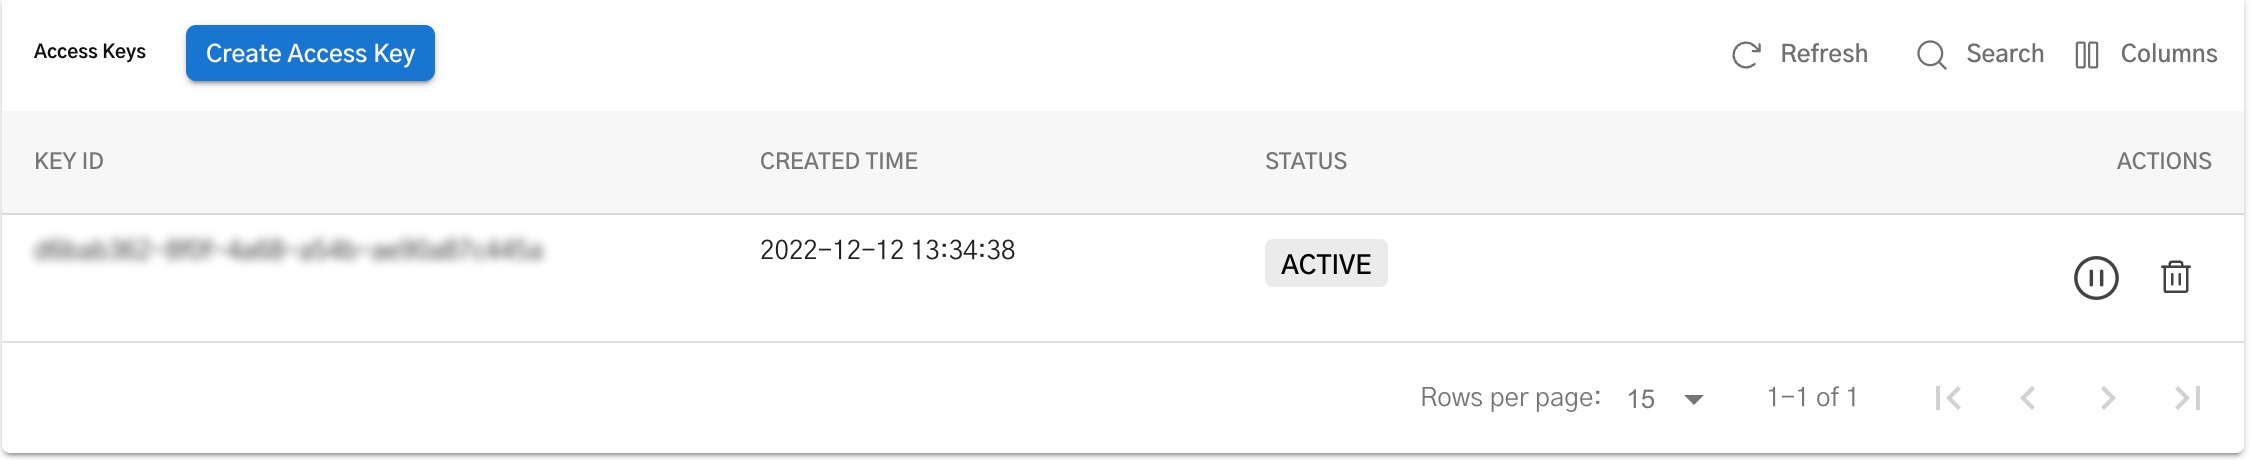
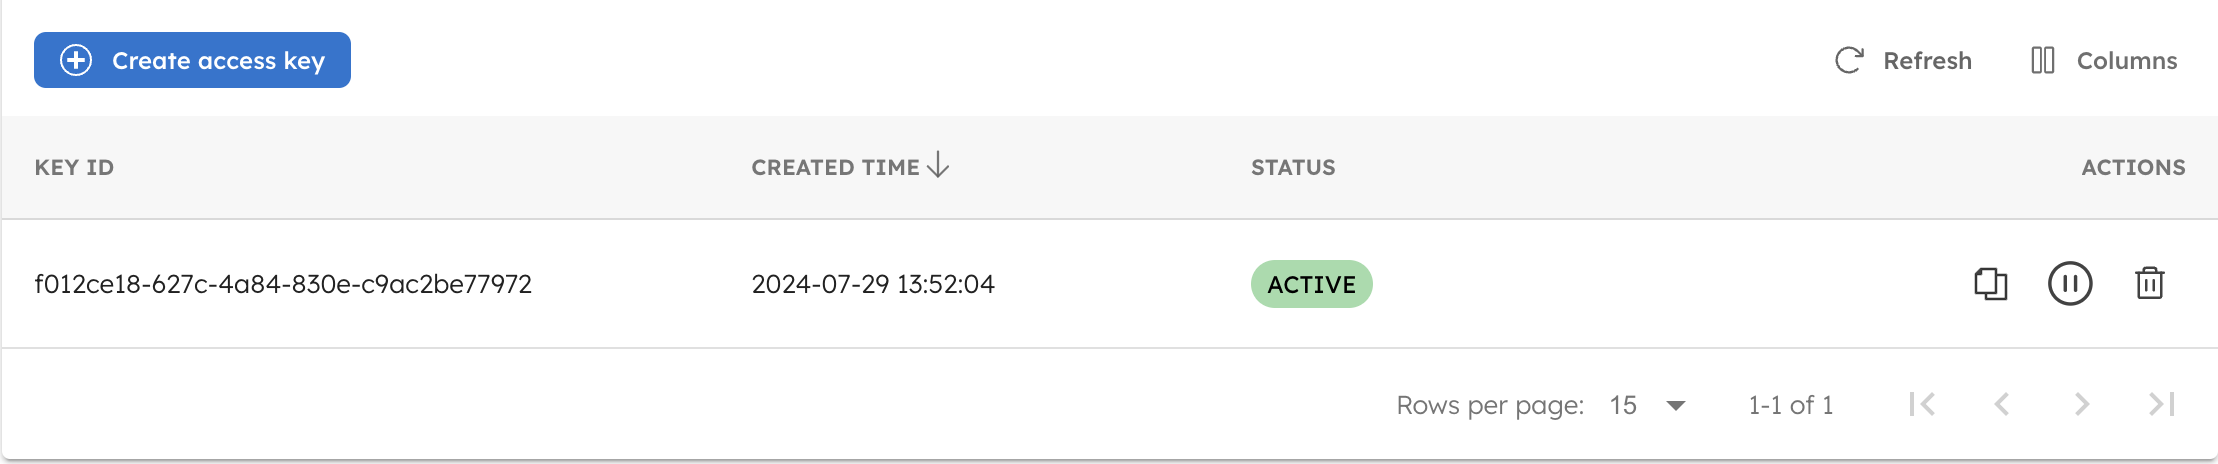
Updates

diff --git a/docs/access-control-and-security/applications.md b/docs/access-control-and-security/applications.md
@@ -1,37 +1,43 @@
 # Enabling Security via Applications
 
-Orkes has added a security layer called Applications, enabling the connection between the workers and the Conductor instance. Every connection in/out of Orkes Conductor requires an authentication header with a JSON Web Token (JWT). This header is of the format: `'X-Authorization: <JWT Token>'`.
+Orkes has added a security layer called Applications, enabling the connection between the workers and the Orkes Conductor cluster. Every connection in/out of Orkes Conductor requires an authentication header with a JSON Web Token (JWT). This header is of the format: `'X-Authorization: <JWT Token>'`.
 
-This document will walk you through the steps to create application-based control for your workflows and tasks and the process to generate JWT tokens for each application.
+An application represents an entity interacting with the Conductor server via APIs or SDKs. Each application can have multiple access key and secret combinations, which are used to generate an authentication token for securing and controlling access to each API request.
+
+This document provides a detailed guide on creating application-based control for your metadata as well as the process for generating JWT tokens for each application.
 
 ## Prototyping
 
-If you are looking for a quick way to test on Orkes Conductor without creating an application, you can obtain a JWT token from the Conductor dashboard. Click the account button in the top right corner, and select **Copy Token**. This token remains valid for your current session and has the same access as your user account.
+For quick testing on Orkes Conductor without creating an application, you can obtain a JWT token from the Orkes Conductor dashboard. Click the account button in the bottom left corner and select "Copy Token." This token remains valid for your current session and has the same access as your user account.
 
 ## Application
 
-Each application can generate one or more sets of keys and secrets, and these parameters are used to generate the JWT token. An application can grant access to workflows, tasks, secrets & tags.
+Each application can generate one or more sets of keys and secrets to produce a JWT token. Applications can grant access to entities such as workflows, tasks, secrets, environment variables, tags, domains, integrations, and prompts.
 
 ### Configuring Application
 
 To create a new application,
-1. From the left menu navigation, navigate to **Access Control > Applications**.
-2. Click **Create application** and provide an app name.
-3. Once your application is created, click the edit button next to its name.
+
+1. Navigate to **Access Control > Applications** from the left menu on your Orkes Conductor console.
+2. Click **+ Create application** and provide an app name.
+3. Click **Save** to create the application.
 
 Depending upon your role, you can see two different role sections that can be granted to the application.
 
-<p align="center"><img src="/content/img/app-roles.png" alt="App roles" width="100%" height="auto"></img></p>
+* Unrestricted roles: Can be granted only by an Admin.
+* Application roles: Can be granted by anyone with access to Applications.
 
-The general application roles that can be granted include:
+<p align="center"><img src="/content/img/app-roles.png" alt="App roles" width="80%" height="auto"></img></p>
 
-* **Worker**: Poll and update tasks. It requires EXECUTE permissions on the tasks.
+General application roles include:
+
+* **Worker**: Poll and update tasks. It requires Execute permissions on the tasks.
 * **Metadata API**: Create and manage workflow and task definitions.
 * **Application API**: Create and manage applications.
 
-The application behavior depends entirely on the app role chosen. Ensure that you select the role based on your requirements. 
+The application's behavior depends on the chosen role, so select roles based on your requirements.
 
-In addition, if you are an Admin in the Orkes Conductor console, then you can see an additional set of following unrestricted roles that are to be granted carefully as they provide full access to different APIs:
+Admins have additional unrestricted roles, such as:
 
 - **Unrestricted Worker** - Poll, execute updates, maintain logs, and handle any task without any constraints
 - **Metadata Manager** - Create, update, delete, and administer Workflow or Task definitions permissions.
@@ -39,41 +45,42 @@ In addition, if you are an Admin in the Orkes Conductor console, then you can se
 - **Application Manager** - Handles the creation, modification, and deletion of applications within the system.
 
 ### Generating Access Keys
-Once your application's permission levels are chosen, access must be granted to the application. This is done by generating an Access Key. Click **Create access key** to generate a unique **Key Id** and **Key Secret**. These values are shown only once, so ensure to copy the credentials and store them privately.
 
-Once a key has been created, you can perform two actions on the key:
+Once permissions are assigned, generate an **Access Key**:
+
+1. Click **+ Create access key** to generate a unique Key Id and Key Secret.
+2. The key secret is shown only once; copy and store it privately.
+
+Once a key has been created, you can perform three actions on the key:
 
 <p align="center"><img src="/content/img/actions-on-the-generated-key.jpg" alt="Generated Key in the Conductor" width="90%" height="auto"></img></p>
 
-* **Pause** - Use the pause button to restrict access to the application temporarily. You can resume this access by un-pausing.
-* **Delete** - Use the delete button to remove the key permanently. It is a one-time action that cannot be undone.
+* **Copy** - Use the copy button to copy the key ID.
+* **Pause** - Use the pause button to temporarily restrict access to the application. 
+* **Delete** - Use the delete button to permanently remove the key.
 
 ### Adding Permissions
-In this section, you can provide the application with access to workflows, tasks, secrets, or tags. To add the permissions,
-1. Click **+Add Permission** from the **Workflow and Task Permissions** section.
-2. Choose the required Workflow/Task/Secret/Tag/Domain/Integration/Prompt in the pop-up window.
-<ul>
-<li><b>Domain</b> - This can be used if you have set up an external worker with a task to domain mapping. You need to provide permission for the domain for the entire application to poll and update the tasks. </li>
-</ul>
+
+In this section, you can provide the application with access to workflows, tasks, secrets, environment variables, tags, domains, integrations, and prompts. 
+
+To grant permissions to the application:
+
+1. Click **+Add Permission**.
+2. Select the required metadata to have access to selected workflows, tasks, secrets, environment variables, tags, domains, integrations, and prompts.
 3. Select all targets that the application needs access to.
 4. Choose the required permissions for the selected targets.
-* **Read** - The user can view the workflow/task/secret/tags, but cannot modify or run them.
-* **Create** - The user can create the workflow/task/secret/tags.
-* **Update** - Allows the user to update the workflow/task/secret/tags. Requires Metadata API role for this.
-* **Execute** - Allows the user to run the workflow/task/secret/tags. Requires Worker role for this.
-* **Delete** - Allows the user to delete the workflow/task/secret/tags. Requires Metadata API role for this.
-5. Once they have been added, the table will display the selection. It is possible to add, change or remove access from here.
-
-:::note 
-When providing permission for tasks, you can specify a domain. This allows you to direct all traffic to a specific task instance without specifying it in the API.
-:::
+   * **Read** - The user can view the entities, but cannot modify or run them.
+   * **Create** - The user can create the entities.
+   * **Update** - Allows the user to update the entities. Requires Metadata API role for this.
+   * **Execute** - Allows the user to run the entities. Requires Worker role for this.
+   * **Delete** - Allows the user to delete the entities. Requires Metadata API role for this.
+5. Click **Add Permissions**.
 
 ## Generating Token
 
-The access keys created above can be used to create JWT to authenticate the user and allow a connection to the Conductor server. All of the [Conductor SDKs](/content/category/sdks) support this authentication step. When using a Conductor SDK, the Key & Secret are provided to the SDK, and the authentication is handled automatically.
+Access keys can be used to create JWTs for authenticating connections to the Conductor server. All of the [Conductor SDKs](/content/category/sdks) support this authentication. When using a Conductor SDK, the key and secret are provided to the SDK, and the authentication is handled automatically.
 
-A JWT may be created outside of the SDK via an API call. Here's an example call to the Orkes Playground:
-
+Alternatively, create a JWT via an API call. Here's an example call to the Orkes Playground:
 
 ```c
 curl -s -X "POST" "https://play.orkes.io/api/token" \
@@ -83,9 +90,10 @@ curl -s -X "POST" "https://play.orkes.io/api/token" \
  {"token":"<JWT Token>"}
  ```
 
- Sending the Key Id and Secret generates a JWT. This JWT can be used to make calls to the Conductor instance. The header for authentication is **X-Authorization:**.
+Sending the key Id and secret generates a JWT. This JWT can be used to make calls to the Orkes Conductor cluster. The header for authentication is `X-Authorization:`.
 
-For example, this call to the **super_weather** workflow uses a JWT token to get the weather in Beverly Hills, CA:
+
+For example, this call to the **_super_weather_** workflow uses a JWT token to get the weather in Beverly Hills, CA:
 
 ```c
 curl -s -X "POST" "https://play.orkes.io/api/workflow/super_weather" \
@@ -98,7 +106,7 @@ curl -s -X "POST" "https://play.orkes.io/api/workflow/super_weather" \
 
 <details><summary>Example Application Setup</summary>
 <p>
-Let’s consider that two programs have access to Conductor workflows. Both these workflows rely on a single task, i.e., Task X, which is performed by a worker application Worker X.
+Let’s consider that two programs have access to Orkes Conductor workflows. Both these workflows rely on a single task, i.e., Task X, which is performed by a worker application Worker X.
 
 One way to handle this is to create a single application with access to Workflow 1, Workflow 2, and Task X and supply keys/secrets from the application to Program 1, Program 2, and Worker X. But this violates the principle of least privilege, where applications should only have access to the endpoints they require (E.g., Here Worker X should not have access to execute the two workflows).
 
